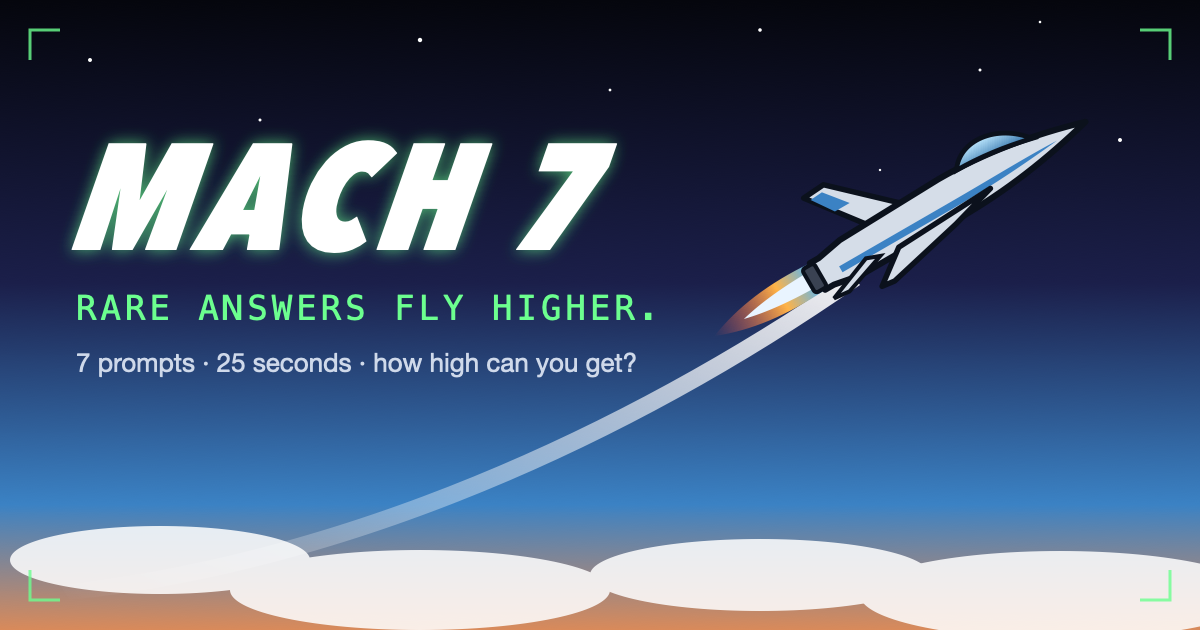
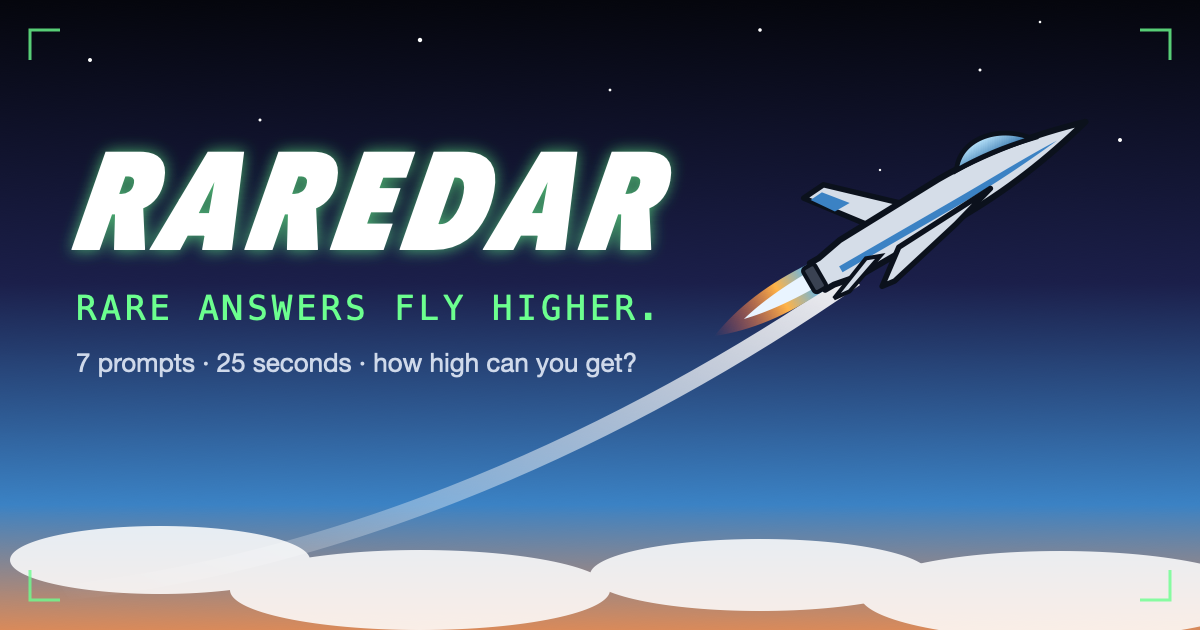
Rename game to Raredar
New name, logo and share card; page title, README and catalogue updated.
Saves stored under the old mach7:v1 key are carried over automatically.
Briefing now says daily prompts are picked at random per player.

Changed region(s): [[0.0925, 0.2111, 0.5858, 0.4222]]

diff --git a/index.html b/index.html
@@ -7,9 +7,9 @@
     <link rel="apple-touch-icon" href="/img/apple-touch-icon.png" />
     <meta name="viewport" content="width=device-width, initial-scale=1.0, viewport-fit=cover, interactive-widget=resizes-content" />
     <meta name="theme-color" content="#070b14" />
-    <title>Mach 7 — the daily rare-answer flight</title>
+    <title>Raredar — the daily rare-answer flight</title>
     <meta name="description" content="7 prompts. 25 seconds each. Rare answers fly higher. How high did you get today?" />
-    <meta property="og:title" content="Mach 7" />
+    <meta property="og:title" content="Raredar" />
     <meta property="og:description" content="Rare answers fly higher." />
     <meta property="og:image" content="/img/og.png" />
     <meta property="og:type" content="website" />

diff --git a/src/game/storage.ts b/src/game/storage.ts
@@ -2,7 +2,9 @@ import { previousDateKey } from './daily';
 import type { FlightResult, Turn } from './types';
 import { DEFAULT_SETTINGS, type Settings } from '../settings';
 
-const KEY = 'mach7:v1';
+const KEY = 'raredar:v1';
+/** Saves from before the rename are picked up once and carried over. */
+const OLD_KEYS = ['mach7:v1'];
 
 export interface Save {
   history: Record<string, FlightResult>;
@@ -45,7 +47,7 @@ const fresh = (): Save => ({
 
 export function load(): Save {
   try {
-    const raw = localStorage.getItem(KEY);
+    const raw = localStorage.getItem(KEY) ?? OLD_KEYS.map((k) => localStorage.getItem(k)).find(Boolean) ?? null;
     if (!raw) return fresh();
     const parsed = JSON.parse(raw);
     const base = fresh();

diff --git a/src/components/Chrome.tsx b/src/components/Chrome.tsx
@@ -149,7 +149,7 @@ export function Briefing({ onClose }: { onClose: () => void }) {
   const pages = [
     {
       title: 'Give one answer',
-      body: 'Seven prompts a day, the same for every pilot. Each has many right answers. Type one before the 25-second clock runs out.',
+      body: 'Seven prompts a day, picked at random for you. Each has many right answers. Type one before the 25-second clock runs out.',
       art: (
         <div className="brief-art brief-prompt">
           <span className="eyebrow">Prompt 1/7</span>

diff --git a/src/game/game.test.ts b/src/game/game.test.ts
@@ -99,7 +99,7 @@ describe('streaks and share', () => {
   });
   it('share text is spoiler-free', () => {
     const r = result('2026-11-13', 515);
-    expect(shareText(r)).toBe('Mach 7 Sortie #13 ✈ 41,500 ft — Wing Commander\n🟩⬛⬜🟦🟪🟨🟧\nhttps://mach7.example');
+    expect(shareText(r)).toBe('Raredar Sortie #13 ✈ 41,500 ft — Wing Commander\n🟩⬛⬜🟦🟪🟨🟧\nhttps://raredar.io');
     expect(shareText({ ...r, points: 60 })).toContain('Never left the runway — Grounded');
   });
 });

diff --git a/src/game/config.ts b/src/game/config.ts
@@ -1,9 +1,9 @@
 import type { TierId } from './types';
 
 /** Working title. Change it here and in index.html. */
-export const GAME_NAME = 'Mach 7';
+export const GAME_NAME = 'Raredar';
 export const TAGLINE = 'Rare answers fly higher.';
-export const GAME_URL = 'https://mach7.example';
+export const GAME_URL = 'https://raredar.io';
 
 export const PROMPTS_PER_FLIGHT = 7;
 export const SECONDS_PER_PROMPT = 25;

diff --git a/README.md b/README.md
@@ -1,4 +1,4 @@
-# Mach 7
+# Raredar
 
 A daily "rarest answer wins" trivia game with fighter jets. Seven prompts, 25 seconds each — obvious answers barely move your jet down the runway, rare ones light the afterburner and launch you towards the edge of space.
 

diff --git a/docs/answer-bank.md b/docs/answer-bank.md
@@ -1,4 +1,4 @@
-# Mach 7 — answer bank
+# Raredar — answer bank
 
 Generated from `data/prompts.txt` and `data/free-prompts.txt`. 251 prompts, 21586 accepted answers.
 
